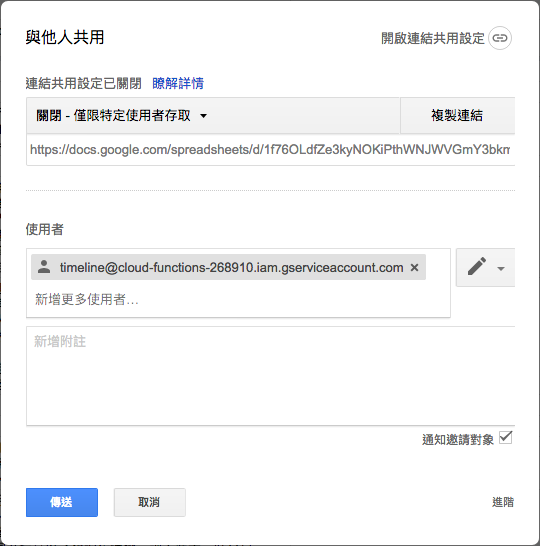
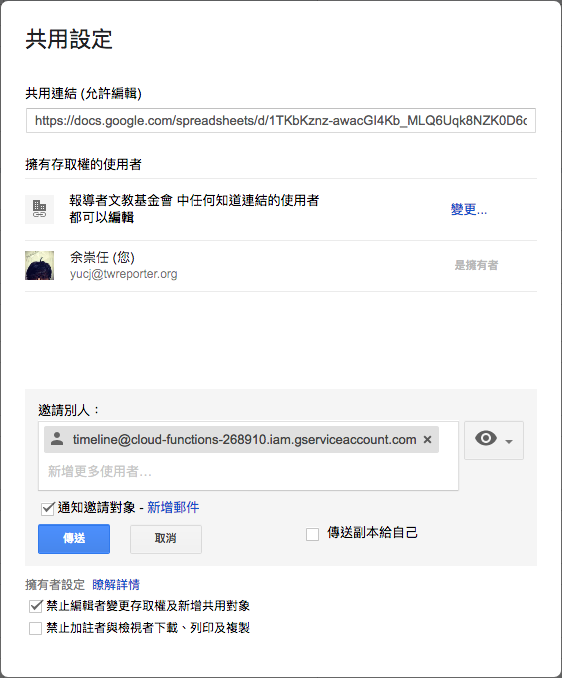
docs(timeline): update user guide

diff --git a/packages/timeline/docs/zh-tw/使用說明.md b/packages/timeline/docs/zh-tw/使用說明.md
@@ -18,12 +18,12 @@
 
 - [點此建立範例試算表副本](https://docs.google.com/spreadsheets/d/1f76OLdfZe3kyNOKiPthWNJWVGmY3bkm5KtxB4NYp9uU/copy)
 - 按照試算表上的格式說明，填入你的資料。
+- 注意在修改資料時，不要改到資料表的欄位順序，和有底色的保護儲存格。
 
 ### 2. 設定共用
 
-- 注意在修改資料時，不要改到資料表的欄位順序，和有底色的保護儲存格。
 - 在`[共用]`設定中，將你的資料表設為「公開」、「知道連結的人均可檢視」、或「知道連結的人均可評論」： ![共用對話框截圖](../assets/share-box.png)
-- 若你想維持資料表只有特定授權使用者可以看到，也可以只授權報導者機器人帳號（timeline@cloud-functions-268910.iam.gserviceaccount.com）讀取你的資料表： ![共用對話框截圖（private）](../assets/share-box-private.png)
+- 若你想維持資料表只有特定授權使用者可以看到，也可以只授權報導者機器人帳號（timeline@cloud-functions-268910.iam.gserviceaccount.com）讀取你的資料表，但要**記得將「通知邀請對象」打勾（重要！沒有勾選寄信通知，機器人無法得到權限）** ![共用對話框截圖（private）](../assets/share-box-private.png)
 
 ### 3. 將你的資料表連結貼到轉換器，取得 embedded code
 
